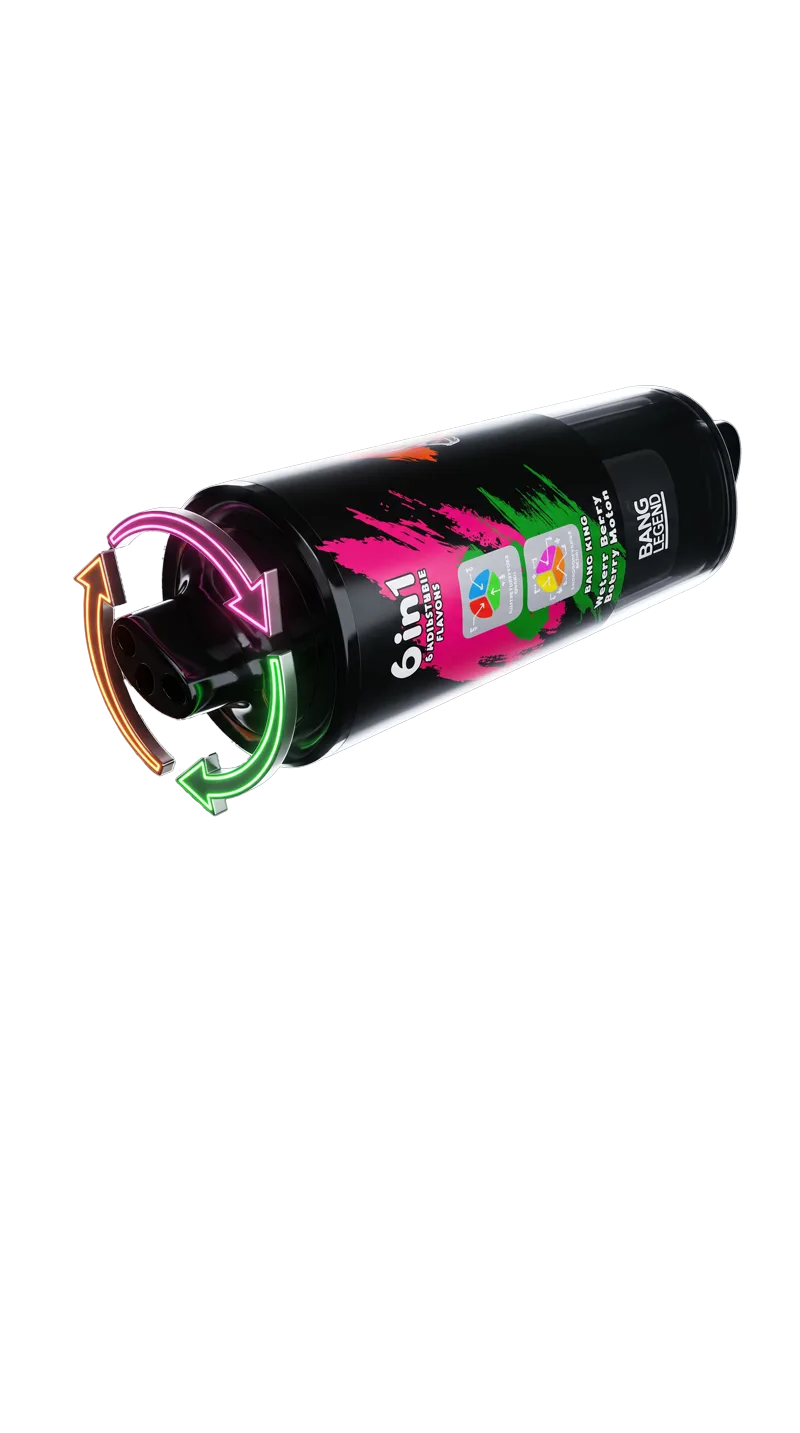
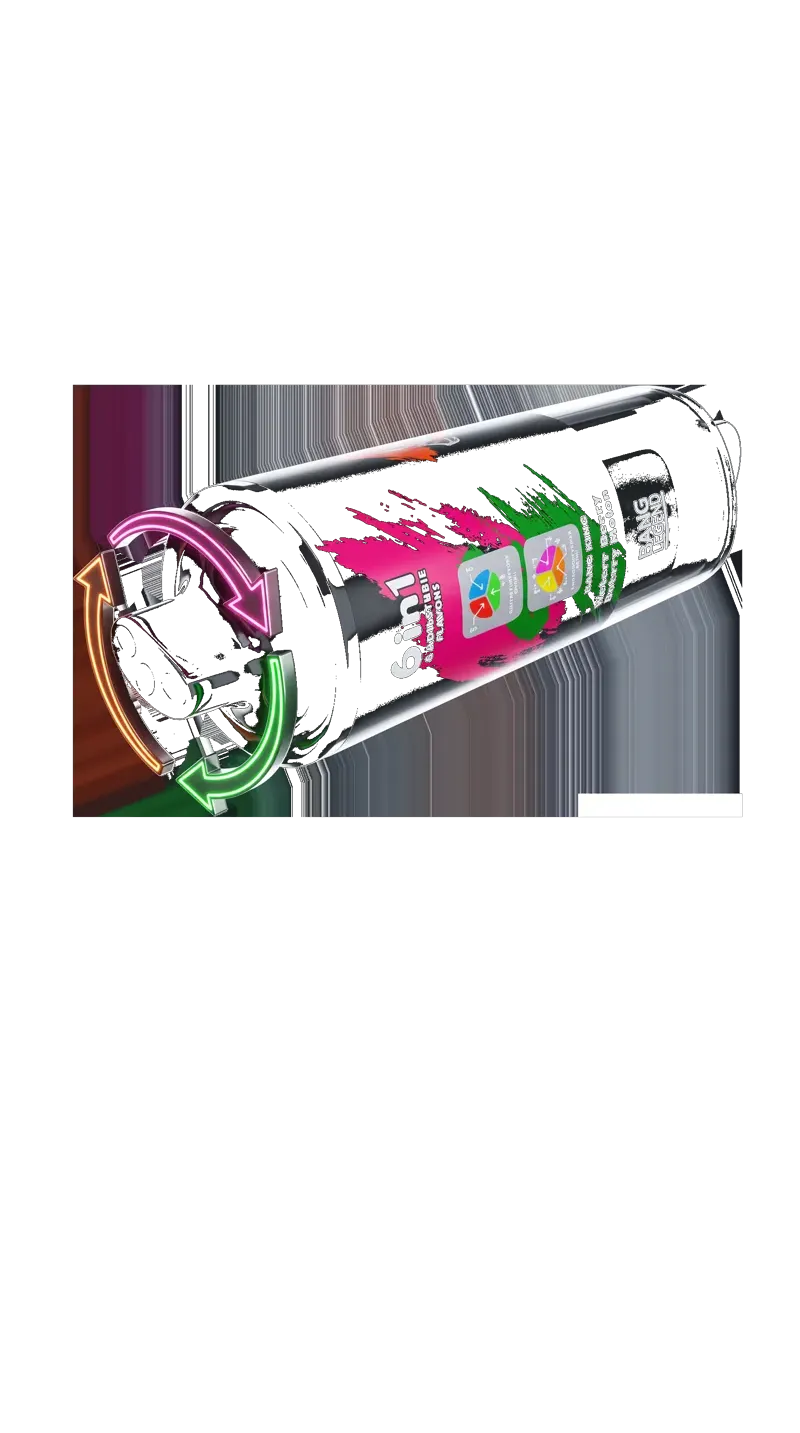
shape-outside cu imagine transparenta - text curge pe conturul vape-ului

Changed region(s): [[0.0625, 0.2456, 0.9375, 0.5834]]

diff --git a/style.css b/style.css
@@ -1,4 +1,4 @@
 :root{--bg:#080808;--bg2:#0e0e0e;--bg3:#151515;--crimson:#8B1A1A;--crimson-mid:#C41E3A;--crimson-glow:rgba(196, 30, 58, 0.35);--white:#FFFFFF;--off-white:#E8E8E8;--gray-l:#999999;--gray:#555555;--gray-d:#2a2a2a;--border:rgba(139, 26, 26, 0.22);--border-w:rgba(255, 255, 255, 0.06);--font-display:'Bebas Neue',cursive;--font-cond:'Barlow Condensed',sans-serif;--font-body:'Barlow',sans-serif;--cart-w:430px;--radius:10px}*,::after,::before{box-sizing:border-box;margin:0;padding:0}html{scroll-behavior:smooth;overflow-x:hidden;max-width:100vw}body{background:var(--bg);color:var(--white);font-family:var(--font-cond);overflow-x:hidden;max-width:100vw;cursor:none}a{text-decoration:none;color:inherit}button{cursor:none}img{display:block}#age-gate{position:fixed;inset:0;z-index:99995;display:flex;align-items:center;justify-content:center;padding:20px}#age-gate-bg{position:absolute;inset:0;background:#020202;background-image:radial-gradient(ellipse at 30% 50%,rgba(139,26,26,.18) 0,transparent 60%),radial-gradient(ellipse at 70% 50%,rgba(139,26,26,.12) 0,transparent 60%)}#age-box{position:relative;z-index:1;background:var(--bg2);border:1px solid rgba(196,30,58,.35);border-radius:16px;padding:44px 40px 36px;max-width:480px;width:100%;display:flex;flex-direction:column;align-items:center;gap:20px;text-align:center;box-shadow:0 0 80px rgba(139,26,26,.2),0 0 0 1px rgba(196,30,58,.1)}#age-logo{width:160px;filter:drop-shadow(0 0 20px rgba(139,26,26,.5));mix-blend-mode:lighten}#age-warning-label{font-family:var(--font-cond);font-weight:700;font-size:.75rem;letter-spacing:.35em;color:var(--crimson-mid);text-transform:uppercase;background:rgba(196,30,58,.1);border:1px solid rgba(196,30,58,.3);border-radius:99px;padding:5px 16px}#age-title{font-family:var(--font-display);font-size:clamp(2.2rem, 8vw, 3.2rem);line-height:.95;letter-spacing:.04em;color:var(--crimson-mid);text-shadow:0 0 40px rgba(196,30,58,.4)}#age-sub{font-family:var(--font-body);font-size:.92rem;color:var(--gray-l);line-height:1.7;max-width:360px}#age-sub strong{color:var(--white)}#age-check-label{display:flex;align-items:flex-start;gap:12px;cursor:pointer;text-align:left;padding:16px 18px;background:var(--bg3);border:1px solid var(--border-w);border-radius:10px;transition:border-color .2s;width:100%}#age-check-label:hover{border-color:var(--border)}#age-check{display:none}#age-check-box{width:20px;height:20px;border:1.5px solid var(--gray);border-radius:5px;flex-shrink:0;margin-top:1px;display:flex;align-items:center;justify-content:center;transition:background .2s,border-color .2s}#age-check-box::after{content:'✓';font-size:.75rem;color:#fff;opacity:0;transition:opacity .15s}#age-check:checked+#age-check-box{background:var(--crimson-mid);border-color:var(--crimson-mid)}#age-check:checked+#age-check-box::after{opacity:1}#age-check-text{font-family:var(--font-body);font-size:.85rem;color:var(--gray-l);line-height:1.55}#age-check-text strong{color:var(--white)}#age-enter{width:100%;background:var(--crimson-mid);color:#fff;border:none;border-radius:8px;padding:16px;font-family:var(--font-display);font-size:1.4rem;letter-spacing:.08em;transition:background .2s,opacity .2s,transform .15s;opacity:.35;cursor:not-allowed}#age-enter:not(:disabled){opacity:1;cursor:none}#age-enter:not(:disabled):hover{background:#a01028;transform:translateY(-2px)}#age-exit{font-family:var(--font-cond);font-size:.78rem;letter-spacing:.15em;color:var(--gray);text-transform:uppercase;text-decoration:none;transition:color .2s}#age-exit:hover{color:var(--gray-l)}#age-gate.hidden{opacity:0;pointer-events:none;transition:opacity .5s}#terms-link{color:var(--white);text-decoration:underline;text-decoration-color:rgba(196,30,58,0.7);text-underline-offset:2px;cursor:pointer;transition:color .2s;font-weight:600}#terms-link:hover{color:var(--crimson-mid)}#terms-modal{position:fixed;inset:0;z-index:99996;display:none;align-items:center;justify-content:center;padding:20px;background:rgba(0,0,0,.82);backdrop-filter:blur(8px)}#terms-modal.open{display:flex}#terms-box{background:var(--bg2);border:1px solid var(--border);border-radius:14px;max-width:640px;width:100%;max-height:85vh;display:flex;flex-direction:column;overflow:hidden}#terms-header{padding:20px 28px;border-bottom:1px solid var(--border-w);display:flex;align-items:center;justify-content:space-between;flex-shrink:0}#terms-title{font-family:var(--font-display);font-size:1.4rem;letter-spacing:.06em;color:var(--crimson-mid)}#terms-close{background:0 0;border:none;color:var(--gray-l);font-size:1rem;padding:6px;cursor:pointer;transition:color .2s}#terms-close:hover{color:var(--white)}#terms-body{flex:1;overflow-y:auto;padding:24px 28px;display:flex;flex-direction:column;gap:16px;scrollbar-width:thin;scrollbar-color:var(--gray-d) transparent}.terms-updated{font-size:.72rem;color:var(--gray);letter-spacing:.1em;font-style:italic}#terms-body h3{font-family:var(--font-cond);font-weight:700;font-size:.88rem;letter-spacing:.12em;text-transform:uppercase;color:var(--crimson-mid);margin-top:8px}#terms-body p{font-family:var(--font-body);font-size:.85rem;color:var(--gray-l);line-height:1.75}#terms-body p strong{color:var(--white)}#terms-footer{padding:18px 28px;border-top:1px solid var(--border-w);flex-shrink:0}#terms-accept{width:100%;background:var(--crimson-mid);color:#fff;border:none;border-radius:8px;padding:14px;font-family:var(--font-display);font-size:1.2rem;letter-spacing:.08em;cursor:pointer;transition:background .2s}#terms-accept:hover{background:#a01028}#cursor{position:fixed;top:0;left:0;width:10px;height:10px;background:var(--crimson-mid);border-radius:50%;pointer-events:none;z-index:99999;transform:translate(-50%,-50%);will-change:left,top}#cursor-ring{position:fixed;top:0;left:0;width:38px;height:38px;border:1.5px solid rgba(196,30,58,.55);border-radius:50%;pointer-events:none;z-index:99998;transform:translate(-50%,-50%);will-change:left,top;transition:width .25s,height .25s,border-color .25s}body.hovering #cursor-ring{width:56px;height:56px;border-color:rgba(196,30,58,.8)}#grain{position:fixed;inset:-50%;width:200%;height:200%;pointer-events:none;z-index:9990;opacity:.042;background-repeat:repeat;background-size:180px 180px;animation:grainShift .35s steps(1) infinite}@keyframes grainShift{0%{transform:translate(0,0)}14%{transform:translate(-4px,-5px)}28%{transform:translate(5px,-3px)}42%{transform:translate(-3px,5px)}57%{transform:translate(4px,4px)}71%{transform:translate(-5px,2px)}85%{transform:translate(3px,-4px)}100%{transform:translate(0,0)}}#loader{position:fixed;inset:0;z-index:9997;background:#020202;display:flex;flex-direction:column;align-items:center;justify-content:center;gap:28px}#loader-logo{width:150px;opacity:0;transform:scale(.85);filter:drop-shadow(0 0 40px rgba(196, 30, 58, .6))}#loader-track{width:220px;height:1.5px;background:rgba(139,26,26,.18);position:relative;overflow:hidden}#loader-fill{height:100%;width:0%;background:linear-gradient(90deg,var(--crimson),var(--crimson-mid))}#loader-label{font-family:var(--font-cond);font-size:.68rem;letter-spacing:.35em;color:var(--crimson-mid);text-transform:uppercase;opacity:0}#navbar{position:fixed;top:0;left:0;right:0;z-index:500;height:68px;padding:0 48px;display:flex;align-items:center;justify-content:space-between;background:rgba(8,8,8,.75);backdrop-filter:blur(12px);transition:background .3s,border-color .3s;border-bottom:1px solid transparent}#navbar.solid{background:rgba(8,8,8,.96);backdrop-filter:blur(20px);border-bottom-color:var(--border)}.nav-logo img{height:52px;width:auto;object-fit:contain;transition:filter .3s}.nav-logo:hover img{filter:drop-shadow(0 0 12px var(--crimson-glow))}.nav-links{display:flex;align-items:center;gap:40px;list-style:none}.nav-links a{font-family:var(--font-cond);font-weight:600;font-size:.82rem;letter-spacing:.18em;color:var(--gray-l);text-transform:uppercase;transition:color .2s;position:relative}.nav-links a::after{content:'';position:absolute;bottom:-3px;left:0;right:0;height:1px;background:var(--crimson-mid);transform:scaleX(0);transform-origin:left;transition:transform .25s ease}.nav-links a:hover{color:var(--white)}.nav-links a:hover::after{transform:scaleX(1)}.nav-right{display:flex;align-items:center;gap:18px}.nav-cart{position:relative;background:0 0;border:none;color:var(--white);padding:8px;display:flex;align-items:center;justify-content:center;transition:color .2s}.nav-cart:hover{color:var(--crimson-mid)}.nav-cart svg{width:22px;height:22px;stroke-width:1.8}.cart-badge{position:absolute;top:0;right:0;width:17px;height:17px;background:var(--crimson-mid);border-radius:50%;font-size:.6rem;font-weight:700;font-family:var(--font-body);display:flex;align-items:center;justify-content:center;opacity:0;transform:scale(0);transition:opacity .2s,transform .25s cubic-bezier(.34, 1.56, .64, 1)}.cart-badge.show{opacity:1;transform:scale(1)}.nav-wa-btn{display:inline-flex;align-items:center;gap:7px;background:rgba(37,211,102,.12);border:1px solid rgba(37,211,102,.35);border-radius:6px;padding:8px 18px;font-family:var(--font-cond);font-size:.8rem;font-weight:700;letter-spacing:.12em;color:#25d366;text-transform:uppercase;transition:background .2s,border-color .2s,transform .15s}.nav-wa-btn:hover{background:rgba(37,211,102,.22);border-color:rgba(37,211,102,.6);transform:translateY(-1px)}.nav-wa-btn svg{width:16px;height:16px;fill:#25D366}#cart-overlay{position:fixed;inset:0;background:rgba(0,0,0,.72);backdrop-filter:blur(6px);z-index:799;opacity:0;pointer-events:none;transition:opacity .35s}#cart-overlay.open{opacity:1;pointer-events:all}#cart-panel{position:fixed;top:0;right:0;width:min(var(--cart-w),100vw);height:100vh;background:var(--bg2);border-left:1px solid var(--border);z-index:800;transform:translateX(100%);transition:transform .38s cubic-bezier(.77, 0, .175, 1);display:flex;flex-direction:column}#cart-panel.open{transform:translateX(0)}.cart-head{padding:22px 28px;border-bottom:1px solid var(--border-w);display:flex;align-items:center;justify-content:space-between;flex-shrink:0}.cart-head-title{font-family:var(--font-display);font-size:1.55rem;letter-spacing:.05em}.cart-head-close{background:0 0;border:none;color:var(--gray-l);font-size:1.1rem;line-height:1;padding:6px;transition:color .2s}.cart-head-close:hover{color:var(--white)}.cart-body{flex:1;overflow-y:auto;padding:24px 28px;display:flex;flex-direction:column;gap:22px;scrollbar-width:thin;scrollbar-color:var(--gray-d) transparent}.cart-empty-msg{text-align:center;margin-top:64px;color:var(--gray);font-size:1rem;letter-spacing:.05em;line-height:1.7}.cart-empty-msg strong{display:block;font-size:1.1rem;color:var(--gray-l);margin-bottom:4px}.cart-line{display:flex;gap:14px;align-items:flex-start;padding-bottom:22px;border-bottom:1px solid var(--border-w)}.cart-line:last-child{border-bottom:none;padding-bottom:0}.cart-line-img{width:64px;height:82px;object-fit:contain;flex-shrink:0}.cart-line-meta{flex:1;min-width:0}.cart-line-brand{font-size:.62rem;letter-spacing:.22em;color:var(--gray);text-transform:uppercase;margin-bottom:2px}.cart-line-name{font-weight:700;font-size:.92rem;letter-spacing:.04em;text-transform:uppercase;white-space:nowrap;overflow:hidden;text-overflow:ellipsis;margin-bottom:10px}.cart-line-qty{display:flex;align-items:center;gap:10px}.qty-btn{width:26px;height:26px;background:var(--bg3);border:1px solid var(--border-w);border-radius:5px;color:var(--white);font-size:.95rem;font-family:var(--font-cond);display:flex;align-items:center;justify-content:center;transition:background .2s}.qty-btn:hover{background:var(--crimson);border-color:var(--crimson)}.qty-num{font-weight:700;font-size:1rem;min-width:22px;text-align:center}.cart-line-price{font-family:var(--font-display);font-size:1.25rem;letter-spacing:.03em;color:var(--white);align-self:flex-start;white-space:nowrap}.cart-line-del{background:0 0;border:none;color:var(--gray);font-size:.85rem;padding:4px;margin-left:-4px;transition:color .2s;align-self:flex-start}.cart-line-del:hover{color:var(--crimson-mid)}.cart-foot{padding:22px 28px;border-top:1px solid var(--border-w);display:flex;flex-direction:column;gap:14px;flex-shrink:0}.cart-foot-total{display:flex;justify-content:space-between;align-items:baseline}.cart-foot-label{font-size:.78rem;letter-spacing:.2em;color:var(--gray-l);text-transform:uppercase}.cart-foot-sum{font-family:var(--font-display);font-size:2.1rem;letter-spacing:.03em}.cart-delivery-note{font-size:.74rem;color:var(--gray);letter-spacing:.06em;text-align:center}.cart-delivery-note span{color:var(--crimson-mid);font-weight:600}.cart-wa-order{display:flex;align-items:center;justify-content:center;gap:10px;background:#25d366;color:#fff;border:none;border-radius:8px;padding:15px 20px;font-family:var(--font-display);font-size:1.3rem;letter-spacing:.07em;text-align:center;transition:background .2s,transform .15s}.cart-wa-order:hover{background:#1ebe5c;transform:translateY(-2px)}.cart-wa-order svg{width:22px;height:22px;fill:#fff;flex-shrink:0}#hero{position:relative;height:100svh;min-height:580px;overflow:hidden}#hero-vid-a,#hero-vid-b{position:absolute;inset:0;width:100%;height:100%;object-fit:cover;z-index:0}#hero-vid-b{opacity:0}#hero-overlay{position:absolute;inset:0;z-index:1;background:linear-gradient(to bottom,rgba(8,8,8,.5) 0,rgba(8,8,8,.3) 40%,rgba(8,8,8,.55) 70%,#[phone redacted]%)}.hero-logo-img{position:absolute;top:88px;left:50%;transform:translateX(-50%);z-index:2;width:clamp(150px,38vw,250px);filter:drop-shadow(0 0 50px rgba(139,26,26,.55));opacity:0;transition:top .3s ease}body.promo-on .hero-logo-img{top:128px}.hero-bottom{position:absolute;bottom:44px;left:50%;transform:translateX(-50%);z-index:2;width:min(400px,92vw);display:flex;flex-direction:column;align-items:center;gap:14px;text-align:center}.hero-heading{font-family:var(--font-display);font-size:clamp(3rem, 11vw, 8rem);line-height:.9;letter-spacing:.06em;color:var(--white);text-shadow:0 0 80px rgba(139,26,26,.25);opacity:0}.hero-heading em{font-style:normal;color:var(--crimson-mid)}.hero-sub{font-family:var(--font-cond);font-size:clamp(.78rem, 1.8vw, 1rem);letter-spacing:.28em;color:var(--gray-l);text-transform:uppercase;font-weight:400;opacity:0}.hero-ctas{display:flex;gap:12px;flex-wrap:wrap;justify-content:center;width:100%;opacity:0}.btn-red{display:inline-flex;align-items:center;justify-content:center;text-align:center;gap:8px;background:var(--crimson-mid);color:#fff;border:none;border-radius:7px;padding:14px 34px;font-family:var(--font-display);font-size:1.15rem;letter-spacing:.08em;transition:background .2s,transform .15s}.btn-red:hover{background:#a01028;transform:translateY(-2px)}.btn-ghost{display:inline-flex;align-items:center;justify-content:center;text-align:center;gap:8px;background:0 0;color:var(--off-white);border:1.5px solid rgba(255,255,255,.22);border-radius:7px;padding:14px 34px;font-family:var(--font-display);font-size:1.15rem;letter-spacing:.08em;transition:border-color .2s,background .2s,transform .15s}.btn-ghost:hover{border-color:rgba(255,255,255,.55);background:rgba(255,255,255,.04);transform:translateY(-2px)}.hero-scroll-hint{display:none}section{padding:72px 0}.wrap{max-width:1200px;margin:0 auto;padding:0 48px}.eyebrow{display:block;font-size:.68rem;letter-spacing:.32em;color:var(--crimson-mid);text-transform:uppercase;font-weight:600;margin-bottom:10px}.sec-title{font-family:var(--font-display);font-size:clamp(2.8rem, 6vw, 5rem);line-height:.92;letter-spacing:.04em}.divider{width:48px;height:2px;background:var(--crimson-mid);margin:18px 0 64px}#products{background:var(--bg);height:100svh;min-height:600px;display:flex;flex-direction:column;padding-top:80px;padding-bottom:0}#products .wrap{flex-shrink:0}#slider-wrap{position:relative;overflow:hidden;flex:1;min-height:420px}#slider-track{position:relative;height:100%;min-height:380px}.slide{position:absolute;inset:0;min-height:380px;display:flex;align-items:center;justify-content:center;overflow:hidden;opacity:0}.slide.active{opacity:1}.slide-bg{position:absolute;inset:0;background:radial-gradient(ellipse at 50% 35%,var(--sc),#[phone redacted]%);opacity:.55}.slide-img-wrap{position:absolute;inset:0;z-index:1;pointer-events:none}.slide-img{position:absolute;top:10%;left:50%;transform:translateX(-50%) translateZ(0);height:72%;max-height:480px;object-fit:contain;will-change:filter,transform;filter:drop-shadow(0 0 70px var(--sc));transition:transform .5s cubic-bezier(.25, .46, .45, .94);user-select:none;pointer-events:none}.slide.active .slide-img{transform:translateX(-50%) scale(1.04)}.slide-img-fill{left:0;top:auto;bottom:0;width:100%;height:115%;max-height:none;object-fit:cover;object-position:center bottom;filter:none;transform:none}.slide.active .slide-img-fill{transform:none}.slide-img-mobile{display:none;position:absolute;left:0;top:auto;bottom:0;width:100%;height:115%;max-height:none;object-fit:cover;object-position:center bottom;filter:none;transform:none;pointer-events:none}.slide-info{position:absolute;bottom:0;left:0;right:0;z-index:2;padding:100px 40px 44px;background:linear-gradient(to top,#[phone redacted],rgba(6,6,6,.9) 45%,transparent 100%);display:flex;flex-direction:column;align-items:center;justify-content:flex-end;gap:14px;text-align:center}.slide-meta{flex:0 0 auto;min-width:0;text-align:center}.slide-brand-tag{font-size:.62rem;letter-spacing:.25em;color:var(--gray-l);text-transform:uppercase;margin-bottom:4px;display:block}.slide-name{font-family:var(--font-display);font-size:clamp(1.8rem, 6vw, 3rem);line-height:.95;letter-spacing:.04em;color:var(--white)}.slide-chips{display:flex;gap:6px;margin-top:6px;flex-wrap:wrap;justify-content:center}.slide-chip{font-size:.6rem;letter-spacing:.12em;text-transform:uppercase;color:var(--gray-l);background:rgba(255,255,255,.06);border:1px solid rgba(255,255,255,.1);border-radius:4px;padding:3px 9px}.slide-right{display:flex;flex-direction:row;align-items:center;gap:24px;flex-shrink:0}.slide-price-wrap{display:flex;flex-direction:column;align-items:center;gap:2px}.slide-price-old{font-family:var(--font-cond);font-size:1rem;font-weight:600;color:#e03030;text-decoration:line-through;text-decoration-color:#e03030;text-decoration-thickness:2px;letter-spacing:.06em}.slide-price{font-family:var(--font-display);font-size:2.8rem;line-height:1;letter-spacing:.02em;white-space:nowrap}.slide-price sub{font-size:1rem;font-family:var(--font-cond);font-weight:400;color:var(--gray-l);vertical-align:baseline;margin-left:2px}.slide-add{display:inline-flex;align-items:center;gap:8px;background:var(--crimson-mid);color:#fff;border:none;border-radius:8px;padding:12px 22px;font-family:var(--font-display);font-size:1.1rem;letter-spacing:.08em;white-space:nowrap;transition:background .2s,transform .15s}.slide-add:hover{background:#a01028;transform:translateY(-2px)}.slide-add.popped{background:#25d366;animation:popAnim .45s cubic-bezier(.36,.07,.19,.97)}@keyframes popAnim{0%{transform:scale(1)}25%{transform:scale(1.2)}60%{transform:scale(.92)}100%{transform:scale(1)}}.slider-arrow{position:absolute;top:50%;transform:translateY(-50%);z-index:3;background:rgba(8,8,8,.6);border:1px solid rgba(255,255,255,.12);border-radius:50%;width:48px;height:48px;color:var(--white);font-size:1.1rem;display:flex;align-items:center;justify-content:center;transition:background .2s,border-color .2s;backdrop-filter:blur(8px)}.slider-arrow:hover{background:var(--crimson-mid);border-color:var(--crimson-mid)}#sliderPrev{left:20px}#sliderNext{right:20px}#slider-dots{position:absolute;bottom:20px;left:50%;transform:translateX(-50%);z-index:3;display:flex;gap:8px;justify-content:center}.dot{width:6px;height:6px;border-radius:50%;background:rgba(255,255,255,.25);transition:background .3s,transform .3s}.dot.active{background:var(--white);transform:scale(1.4)}#about{background:linear-gradient(rgba(14,14,14,.87),rgba(14,14,14,.87)),url('bg-graffiti.webp') center/cover;border-top:1px solid var(--border);border-bottom:1px solid var(--border);overflow:hidden}.about-grid{display:grid;grid-template-columns:1fr 1fr;gap:90px;align-items:start}.about-body p{font-family:var(--font-body);font-size:1.05rem;line-height:1.85;color:var(--gray-l);margin-bottom:22px}.about-body p strong{color:var(--white);font-weight:600}.about-body p:last-child{margin-bottom:0}.stats-row{display:grid;grid-template-columns:1fr 1fr;gap:28px;margin-top:44px}.stat-box{display:flex;flex-direction:column;gap:5px}.stat-val{font-family:var(--font-display);font-size:3rem;line-height:1;color:var(--crimson-mid);text-shadow:0 0 30px rgba(196,30,58,.6),0 2px 8px rgba(0,0,0,.8)}.stat-lbl{font-size:.68rem;letter-spacing:.22em;color:var(--gray);text-transform:uppercase;text-shadow:0 1px 6px rgba(0,0,0,.9)}.features-col{display:flex;flex-direction:column;gap:16px;padding-top:80px}.feature-card{display:flex;align-items:flex-start;gap:16px;padding:20px;background:var(--bg3);border:1px solid var(--border-w);border-radius:var(--radius);transition:border-color .25s}.feature-card:hover{border-color:var(--border)}.feat-icon{width:42px;height:42px;background:rgba(139,26,26,.12);border:1px solid var(--border);border-radius:9px;display:flex;align-items:center;justify-content:center;flex-shrink:0}.feat-icon svg{width:20px;height:20px;stroke:var(--crimson-mid)}.feat-title{font-weight:700;font-size:.9rem;letter-spacing:.06em;text-transform:uppercase;margin-bottom:4px}.feat-desc{font-family:var(--font-body);font-size:.82rem;color:var(--gray-l);line-height:1.55}#contact{background:var(--bg)}.contact-grid{display:grid;grid-template-columns:1fr 1fr;gap:64px;align-items:start}.contact-left{display:flex;flex-direction:column;gap:36px}.delivery-card{display:flex;align-items:center;gap:14px;background:rgba(139,26,26,.08);border:1px solid rgba(196,30,58,.3);border-radius:var(--radius);padding:18px 22px}.delivery-card-emoji{font-size:1.7rem;line-height:1}.delivery-card-txt strong{display:block;font-weight:700;font-size:.92rem;letter-spacing:.08em;text-transform:uppercase;margin-bottom:3px}.delivery-card-txt span{font-size:.8rem;color:var(--gray-l)}.contact-rows{display:flex;flex-direction:column;gap:20px}.contact-row{display:flex;align-items:center;gap:16px}.c-icon{width:44px;height:44px;background:var(--bg3);border:1px solid var(--border-w);border-radius:10px;display:flex;align-items:center;justify-content:center;flex-shrink:0}.c-icon svg{width:20px;height:20px;stroke:var(--crimson-mid)}.c-lbl{font-size:.65rem;letter-spacing:.18em;color:var(--gray);text-transform:uppercase;margin-bottom:3px}.c-val{font-weight:600;font-size:1rem;letter-spacing:.04em}.wa-block{background:var(--bg2);border:1px solid var(--border);border-radius:16px;padding:40px;display:flex;flex-direction:column;gap:20px}.wa-block-title{font-family:var(--font-display);font-size:2rem;line-height:1;letter-spacing:.04em}.wa-block-desc{font-family:var(--font-body);font-size:.9rem;color:var(--gray-l);line-height:1.7}.wa-btn-full{display:flex;align-items:center;justify-content:center;gap:12px;background:#25d366;color:#fff;border:none;border-radius:10px;padding:18px 24px;font-family:var(--font-display);font-size:1.5rem;letter-spacing:.06em;transition:background .2s,transform .15s}.wa-btn-full:hover{background:#1ebe5c;transform:translateY(-2px)}.wa-btn-full svg{width:26px;height:26px;fill:#fff}.wa-footnote{font-size:.72rem;color:var(--gray);text-align:center;letter-spacing:.06em}footer{background:#050505;border-top:1px solid var(--border);padding:36px 48px}.footer-row{max-width:1200px;margin:0 auto;display:flex;flex-direction:column;align-items:center;gap:20px;text-align:center}.footer-logo img{height:130px;opacity:.95}.footer-copy{font-family:var(--font-body);font-size:.75rem;color:var(--gray);letter-spacing:.06em;white-space:nowrap}.footer-copy strong{color:var(--gray-l)}.footer-nav{display:flex;gap:32px;list-style:none;flex-wrap:wrap;justify-content:center}.footer-nav a{font-size:.72rem;letter-spacing:.18em;text-transform:uppercase;color:var(--gray);transition:color .2s}.footer-nav a:hover{color:var(--gray-l)}@media (max-width:900px){.about-grid{grid-template-columns:1fr;gap:52px}.contact-grid{grid-template-columns:1fr;gap:44px}.features-col{padding-top:0}}@media (max-width:720px){#age-gate{padding:12px;align-items:center;padding-top:max(16px,env(safe-area-inset-top));overflow-y:auto}#age-box{padding:24px 20px 20px;gap:12px;max-height:none}#age-logo{width:130px}#age-title{font-size:clamp(1.6rem, 9vw, 2.2rem)}#age-sub{font-size:.82rem}#age-check-label{padding:12px 14px}#age-enter{padding:13px;font-size:1.2rem}#navbar{padding:0 20px;height:60px}.nav-links{display:none}.wrap{padding:0 20px}section{padding:72px 0}.hero-heading{font-size:clamp(1.8rem, 9.5vw, 2.4rem);line-height:.9}.hero-sub{font-size:.68rem;letter-spacing:.16em}.hero-bottom{bottom:18px;gap:8px;width:min(360px,92vw)}.hero-ctas{flex-direction:column;gap:7px}.btn-ghost,.btn-red{width:100%;padding:11px 24px;font-size:1rem}.hero-logo-img{top:70px;width:clamp(110px,36vw,180px)}body.promo-on .hero-logo-img{top:110px}#slider-wrap{min-height:380px}.slide-img-fill{display:none}.slide-img-mobile{display:block}.slide-info{align-items:flex-start;padding:36px 20px 20px;gap:8px;text-align:left}.slide-meta{text-align:left}.slide-chips{justify-content:flex-start}.slide-right{flex-direction:row;align-items:center;justify-content:space-between;width:100%}.slide-price-wrap{align-items:flex-start}.slide-name{font-size:clamp(1.5rem, 7vw, 2rem)}.slide-price{font-size:2.2rem}.slide-price-old{font-size:.88rem}.slide-add{padding:10px 16px;font-size:1rem}.slider-arrow{width:36px;height:36px;font-size:.85rem}#sliderPrev{left:8px}#sliderNext{right:8px}#slider-dots{bottom:12px}.stats-row{grid-template-columns:1fr 1fr;gap:20px}footer{padding:28px 20px}.footer-row{gap:16px}.footer-copy{white-space:normal}#cursor,#cursor-ring{display:none}body{cursor:auto}button{cursor:pointer}a{cursor:pointer}.wa-block{padding:28px 22px}#grain{display:none}#navbar{backdrop-filter:none}#navbar.solid{backdrop-filter:none}#cart-overlay{backdrop-filter:none;background:rgba(0,0,0,.82)}#promo-reveal{backdrop-filter:none}.slider-arrow{backdrop-filter:none}.slide-img{will-change:auto}}@media (prefers-reduced-motion:reduce){*,::after,::before{animation-duration:0s!important;animation-iteration-count:1!important;transition-duration:0s!important}}#promo-reveal{display:none;position:fixed;inset:0;z-index:10000;background:rgba(8,8,8,.97);backdrop-filter:blur(24px);align-items:center;justify-content:center;overflow-y:auto}#promo-reveal.show{display:flex}.pr-inner{text-align:center;padding:28px 24px 36px;max-width:400px;width:100%}.pr-sparta-logo{width:200px;height:auto;margin:0 auto 8px;display:block;mix-blend-mode:lighten;filter:drop-shadow(0 0 30px rgba(196,30,58,.5));animation:spartaPulse 3s ease-in-out infinite}@keyframes spartaPulse{0%,100%{filter:drop-shadow(0 0 30px rgba(196,30,58,.5))}50%{filter:drop-shadow(0 0 55px rgba(196,30,58,.85))}}.pr-badge{display:inline-block;background:#c41e2a;color:#fff;font-family:'Barlow Condensed',sans-serif;font-weight:700;font-size:.7rem;padding:3px 12px;border-radius:3px;letter-spacing:.15em;margin-bottom:16px}.pr-sub{font-family:Barlow,sans-serif;color:rgba(255,255,255,.45);font-size:.9rem;margin-bottom:4px}.pr-pct{font-family:'Bebas Neue',sans-serif;font-size:5rem;color:#c41e2a;line-height:1;letter-spacing:.02em}.pr-title{font-family:'Bebas Neue',sans-serif;font-size:3rem;color:#fff;letter-spacing:.05em;line-height:1;margin-bottom:6px}.pr-desc{font-family:'Barlow Condensed',sans-serif;font-size:.95rem;color:rgba(255,255,255,.5);margin:0 0 20px;line-height:1.5}.pr-price-table{background:rgba(255,255,255,.04);border:1px solid rgba(255,255,255,.09);border-radius:8px;padding:14px 20px;margin:0 0 18px;text-align:left}.pr-price-row{display:flex;justify-content:space-between;align-items:center;padding:7px 0;font-family:'Barlow Condensed',sans-serif;font-size:1rem;color:rgba(255,255,255,.55)}.pr-price-row+.pr-price-row{border-top:1px solid rgba(255,255,255,.06)}.ppr-val del{opacity:.38;margin-right:4px;font-size:.9em}.ppr-val strong{color:#c41e2a;font-size:1.1em}.pr-dial-wrap{margin:0 auto 14px;width:110px;height:110px;position:relative}.pr-dial{width:100%;height:100%;transform:rotate(-90deg)}.pr-dial .d-bg{fill:none;stroke:rgba(255,255,255,0.07);stroke-width:8}.pr-dial .d-arc{fill:none;stroke:#22c55e;stroke-width:8;stroke-linecap:round;stroke-dasharray:326.73;stroke-dashoffset:0;transition:stroke-dashoffset 1s linear,stroke .6s}.pr-dial-label{position:absolute;inset:0;display:flex;align-items:center;justify-content:center;font-family:'Bebas Neue',sans-serif;font-size:1rem;letter-spacing:.1em;color:#fff}.pr-code{font-family:'Barlow Condensed',sans-serif;font-size:.82rem;color:rgba(255,255,255,.3);letter-spacing:.12em;margin-bottom:22px}.pr-code span{color:rgba(255,255,255,.7);font-weight:700;letter-spacing:.18em}.pr-btn{display:block;width:100%;max-width:280px;margin:0 auto 12px;background:#c41e2a;color:#fff;font-family:'Barlow Condensed',sans-serif;font-weight:700;font-size:1.05rem;letter-spacing:.1em;padding:14px 24px;border:none;border-radius:4px;cursor:pointer;transition:background .2s,transform .15s}.pr-btn:hover{background:#a3141f;transform:translateY(-2px)}.pr-note{font-family:Barlow,sans-serif;font-size:.73rem;color:rgba(255,255,255,.22)}#promo-bar{display:none;position:fixed;top:0;left:0;right:0;z-index:9999;height:40px;background:#0d0d0d;border-bottom:1px solid rgba(196,30,42,.4);align-items:center;justify-content:center;gap:12px;overflow:hidden}#promo-bar.show{display:flex}body.promo-on #navbar{top:40px}body.promo-on #cart-panel{top:40px;height:calc(100vh - 40px)}.pb-chip{background:#c41e2a;color:#fff;font-family:'Barlow Condensed',sans-serif;font-weight:700;font-size:.66rem;padding:2px 7px;border-radius:2px;letter-spacing:.12em}.pb-txt{font-family:Barlow,sans-serif;font-size:.78rem;color:rgba(255,255,255,.55)}.pb-txt strong{color:#fff}.pb-clock{font-family:'Bebas Neue',sans-serif;font-size:.98rem;letter-spacing:.12em;color:#22c55e;min-width:62px;transition:color .6s}.pb-prog{position:absolute;bottom:0;left:0;height:2px;background:#c41e2a;transition:width 1s linear}.cart-orig-sum{font-family:'Barlow Condensed',sans-serif;font-size:.75rem;color:rgba(255,255,255,.28);text-decoration:line-through;text-align:right;margin-bottom:2px}.cart-promo-row{display:flex;justify-content:space-between;font-family:'Barlow Condensed',sans-serif;font-size:.82rem;color:#4ade80;padding:5px 0;border-top:1px solid rgba(255,255,255,.06)}.slide-add--oos{background:#2a2a2a;color:#666;border:1px solid #333;cursor:not-allowed;opacity:0.7}
 .slide-flavors-top{position:absolute;top:14px;left:0;right:0;z-index:3;display:flex;flex-direction:column;align-items:center;gap:6px;padding:0 16px}.slide-flavors-wrap{display:flex;flex-direction:column;align-items:center;gap:5px;margin-bottom:6px}.slide-flavors-label{font-size:.52rem;letter-spacing:.28em;text-transform:uppercase;color:rgba(255,255,255,.25);font-family:var(--font-cond)}.slide-flavors{display:flex;gap:6px;flex-wrap:wrap;justify-content:center}.flavor-chip{font-size:.65rem;letter-spacing:.05em;font-family:var(--font-cond);font-weight:600;color:rgba(255,255,255,.5);background:rgba(255,255,255,.05);border:1px solid rgba(255,255,255,.12);border-radius:20px;padding:4px 12px;cursor:none;transition:color .18s,border-color .18s,background .18s;white-space:nowrap}.flavor-chip:hover{color:rgba(255,255,255,.85);border-color:rgba(255,255,255,.3)}.flavor-chip.active{color:#fff;background:rgba(196,30,58,.2);border-color:rgba(196,30,58,.8);font-weight:700}.slide-stock{font-size:.58rem;letter-spacing:.18em;text-transform:uppercase;color:rgba(255,255,255,.28);margin-top:4px;font-family:var(--font-cond)}.slide-stock--low{color:#f59e0b;font-weight:700}
 #rotate-feature{background:var(--bg);border-top:1px solid var(--border);border-bottom:1px solid var(--border)}.rotate-grid{display:grid;grid-template-columns:1fr 1fr;gap:60px;align-items:center}.rotate-text p{font-family:var(--font-body);font-size:1.05rem;line-height:1.85;color:var(--gray-l);margin-bottom:18px}.rotate-text p strong{color:var(--white)}.rotate-chips{display:flex;flex-wrap:wrap;gap:10px;margin-top:8px}.rotate-chip{font-family:var(--font-cond);font-size:.75rem;font-weight:600;letter-spacing:.1em;color:var(--crimson-mid);background:rgba(196,30,58,.08);border:1px solid rgba(196,30,58,.25);border-radius:20px;padding:6px 14px}.rotate-img-wrap{display:flex;align-items:center;justify-content:center}.rotate-img{width:100%;max-width:520px;mix-blend-mode:lighten;filter:drop-shadow(0 0 40px rgba(196,30,58,.15))}@media(max-width:900px){.rotate-grid{grid-template-columns:1fr;gap:32px}.rotate-img-wrap{order:-1}.rotate-img{max-width:360px}}
-.about-rotativ-img{float:right;width:clamp(340px,80%,620px);margin:100px -240px 16px 10px;mix-blend-mode:lighten;pointer-events:none;filter:drop-shadow(0 0 20px rgba(196,30,58,.1));shape-outside:inset(0 0 0 30%);shape-margin:12px}@media(max-width:720px){.about-rotativ-img{width:clamp(260px,85%,420px);margin:60px -150px 12px 10px;shape-outside:inset(0 0 0 25%);shape-margin:8px}}
+.about-rotativ-img{float:right;width:clamp(340px,80%,620px);margin:100px -240px 16px 10px;mix-blend-mode:lighten;pointer-events:none;filter:drop-shadow(0 0 20px rgba(196,30,58,.1));shape-outside:url('vape-rotativ-transparent.webp');shape-margin:16px}@media(max-width:720px){.about-rotativ-img{width:clamp(260px,85%,420px);margin:60px -150px 12px 10px;shape-outside:url('vape-rotativ-transparent.webp');shape-margin:10px}}